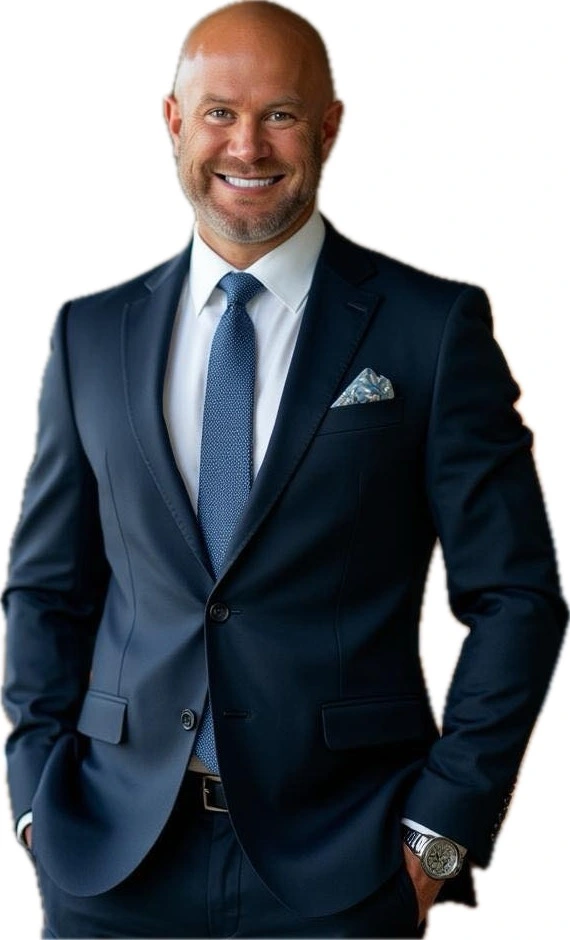
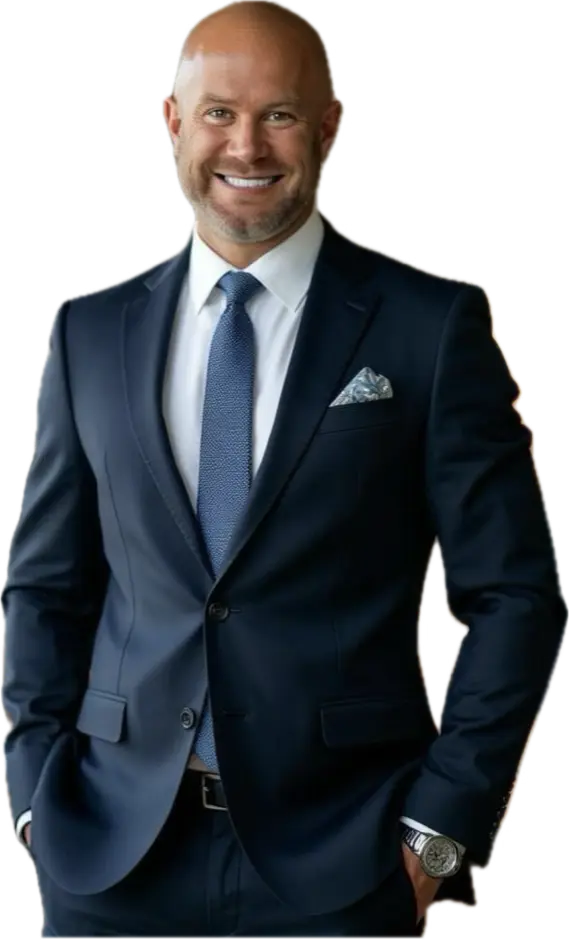
Update hero background and add transparent cutout image

diff --git a/docs/dist/assets/css/styles.css b/docs/dist/assets/css/styles.css
@@ -91,19 +91,22 @@ a{color:inherit;text-decoration:none}
   position:relative;
   overflow:hidden;
   border-bottom:1px solid rgba(0,0,0,.06);
+  min-height:560px; /* ensure some height even before content loads */
 }
 .hero-bg{
   position:absolute;inset:0;
+  z-index:0;
   /* Keep your skyline file here (png/webp). Adjust opacities if needed. */
   background:
     linear-gradient(90deg, rgba(246,244,241,.78), rgba(246,244,241,.42)),
-    url("/assets/img/lansing-skyline.webp") center/cover no-repeat;
+    url("/assets/img/lansing-skyline.png") center/cover no-repeat;
   filter:saturate(.95) contrast(1.02);
 }
 
 /* Layout tuned for cutout overlap */
 .hero-grid{
   position:relative;
+  z-index:1;
   display:grid;
   grid-template-columns:1.1fr .9fr;
   align-items:end;

diff --git a/docs/src/assets/css/styles.css b/docs/src/assets/css/styles.css
@@ -91,19 +91,22 @@ a{color:inherit;text-decoration:none}
   position:relative;
   overflow:hidden;
   border-bottom:1px solid rgba(0,0,0,.06);
+  min-height:560px; /* ensure some height even before content loads */
 }
 .hero-bg{
   position:absolute;inset:0;
+  z-index:0;
   /* Keep your skyline file here (png/webp). Adjust opacities if needed. */
   background:
     linear-gradient(90deg, rgba(246,244,241,.78), rgba(246,244,241,.42)),
-    url("/assets/img/lansing-skyline.webp") center/cover no-repeat;
+    url("/assets/img/lansing-skyline.png") center/cover no-repeat;
   filter:saturate(.95) contrast(1.02);
 }
 
 /* Layout tuned for cutout overlap */
 .hero-grid{
   position:relative;
+  z-index:1;
   display:grid;
   grid-template-columns:1.1fr .9fr;
   align-items:end;

diff --git a/docs/dist/index.html b/docs/dist/index.html
@@ -74,9 +74,9 @@
       </div>
     </div>
 
-    <div class="hero-photo reveal">
-      <img src="/assets/img/joel-headshot.jpg" alt="Joel Sodeman, Broker" />
-      <div class="caption">
+    <div class="hero-figure reveal" aria-hidden="true">
+      <img src="/assets/img/joel-cutout.webp" alt="" />
+      <div class="hero-figure-tag">
         <div class="name">Joel Sodeman</div>
         <div class="role">Broker, Sodeman Realty</div>
       </div>
